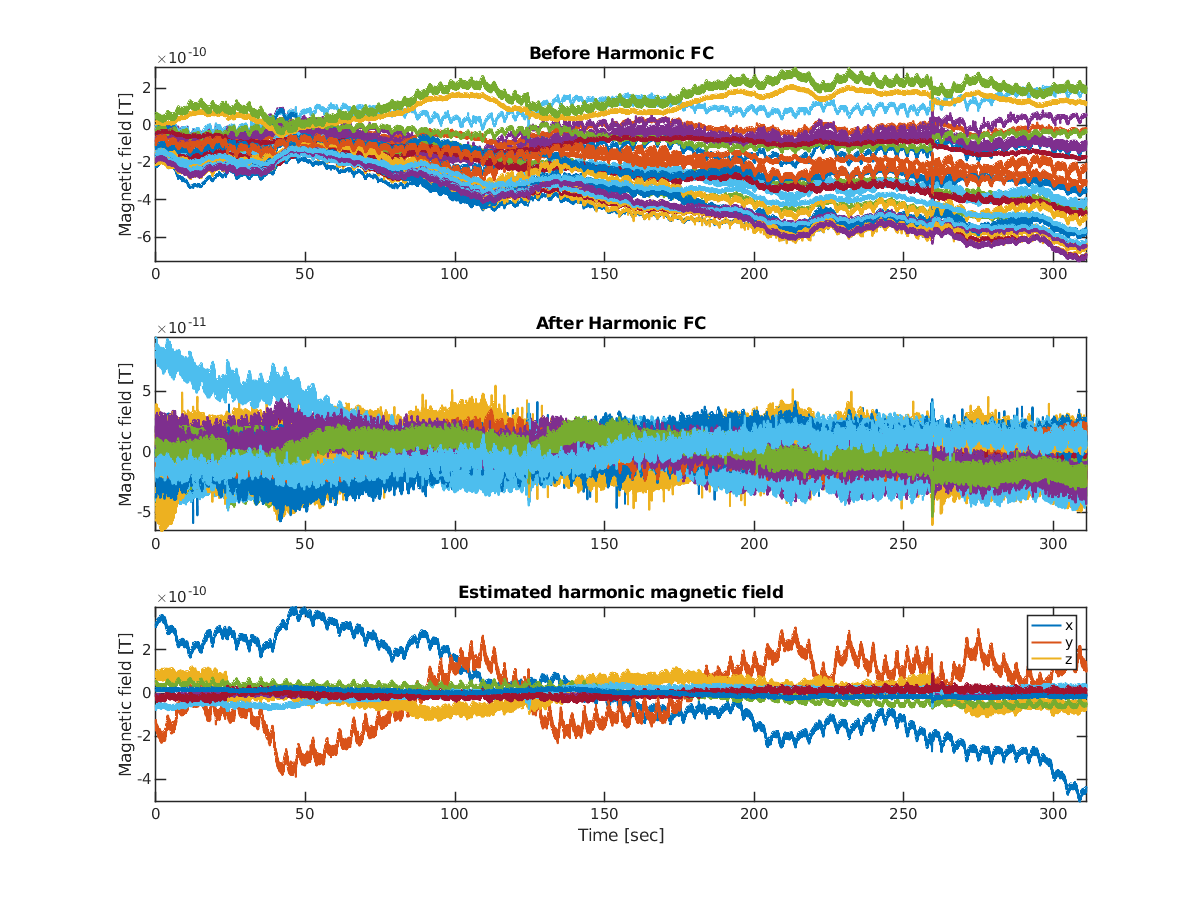
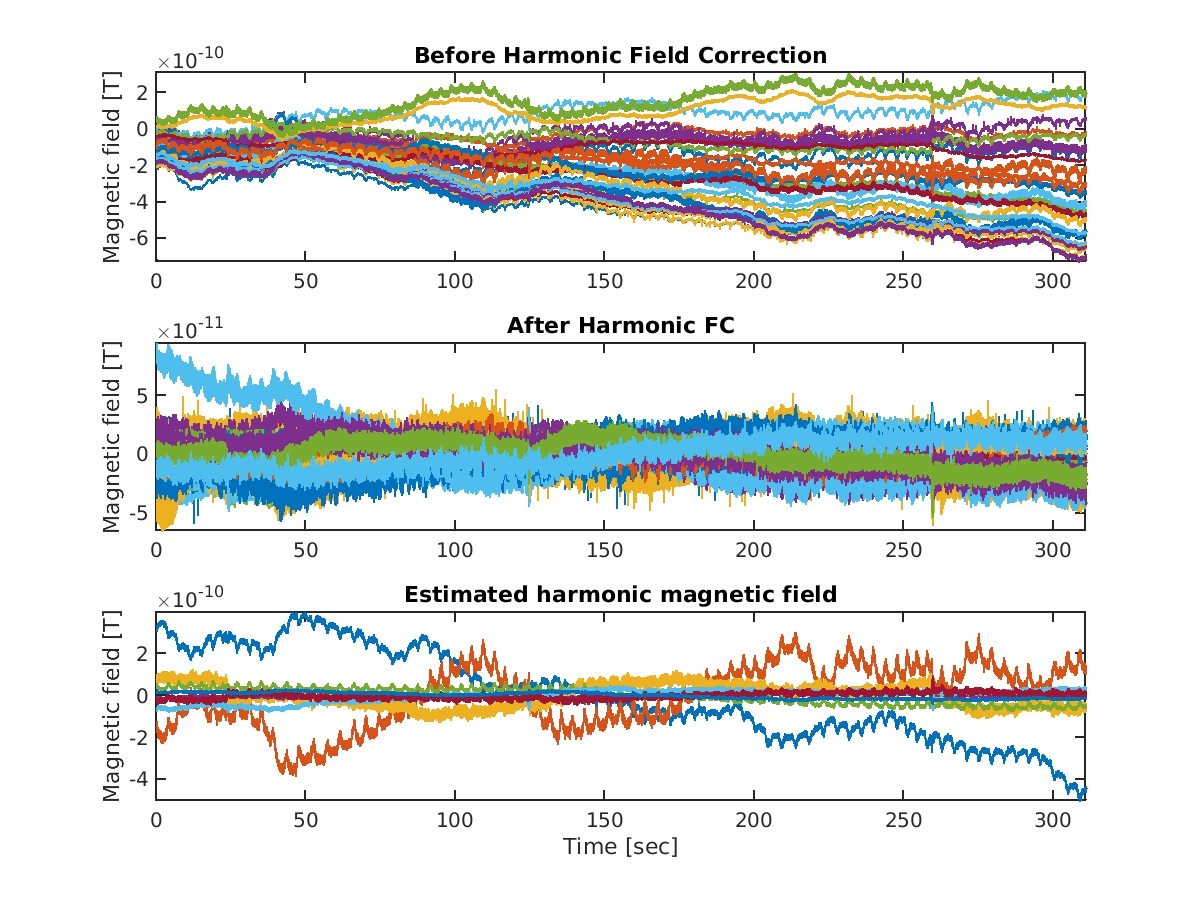
slight adjustment to harmonicfc figures

diff --git a/program/preprocess/apply_harmonicfc.m b/program/preprocess/apply_harmonicfc.m
@@ -75,7 +75,7 @@ for run = 1:p.num_run
         set_fig_property(4, 3, 15, 15);
         close all
         h = figure; hold on
-        subplot(3, 1, 1), plot(time, y'), title('Before Harmonic FC') %title('Before HFC')
+        subplot(3, 1, 1), plot(time, y'), title('Before Harmonic Field Correction')
         xlim([min(time) max(time)]), ylim([min(y(:)) max(y(:))])
         ylabel('Magnetic field [T]')
         
@@ -84,7 +84,7 @@ for run = 1:p.num_run
         ylabel('Magnetic field [T]')
         subplot(3, 1, 3), plot(time, HarmonicField'), title('Estimated harmonic magnetic field')
         xlim([min(time) max(time)]), ylim([min(HarmonicField(:)) max(HarmonicField(:))])
-        xlabel('Time [sec]'), ylabel('Magnetic field [T]'), legend({'x' 'y' 'z'})
+        xlabel('Time [sec]'), ylabel('Magnetic field [T]')
         fig_file = fullfile(p.fig_root, mfilename, p.task, [p.sub '_' file_name '_hf']);
         vb_savefig_as_shown(h, fig_file)
         disp([fig_file '.png was saved.'])
@@ -110,7 +110,7 @@ for run = 1:p.num_run
     
     append_ch = [];
     append_ch.data = HarmonicField;
-    append_ch.name = {'HFx', 'HFy', 'HFz'};
+    append_ch.name = {'HFx', 'HFy', 'HFz'}; % no idea what to do here
     append_ch.type = [257, 257, 257];
     append_extra_ch(input_file, append_ch, output_file); % It makes output_file
     

diff --git a/program/make_all.m b/program/make_all.m
@@ -12,8 +12,6 @@ addpath(genpath(cd))
 % Get properties of dataset
 dataset = define_dataset;
 
-
-
 for ss = 1:4
 	sub = dataset.sub_list{ss};
 	for tt = 1:3
